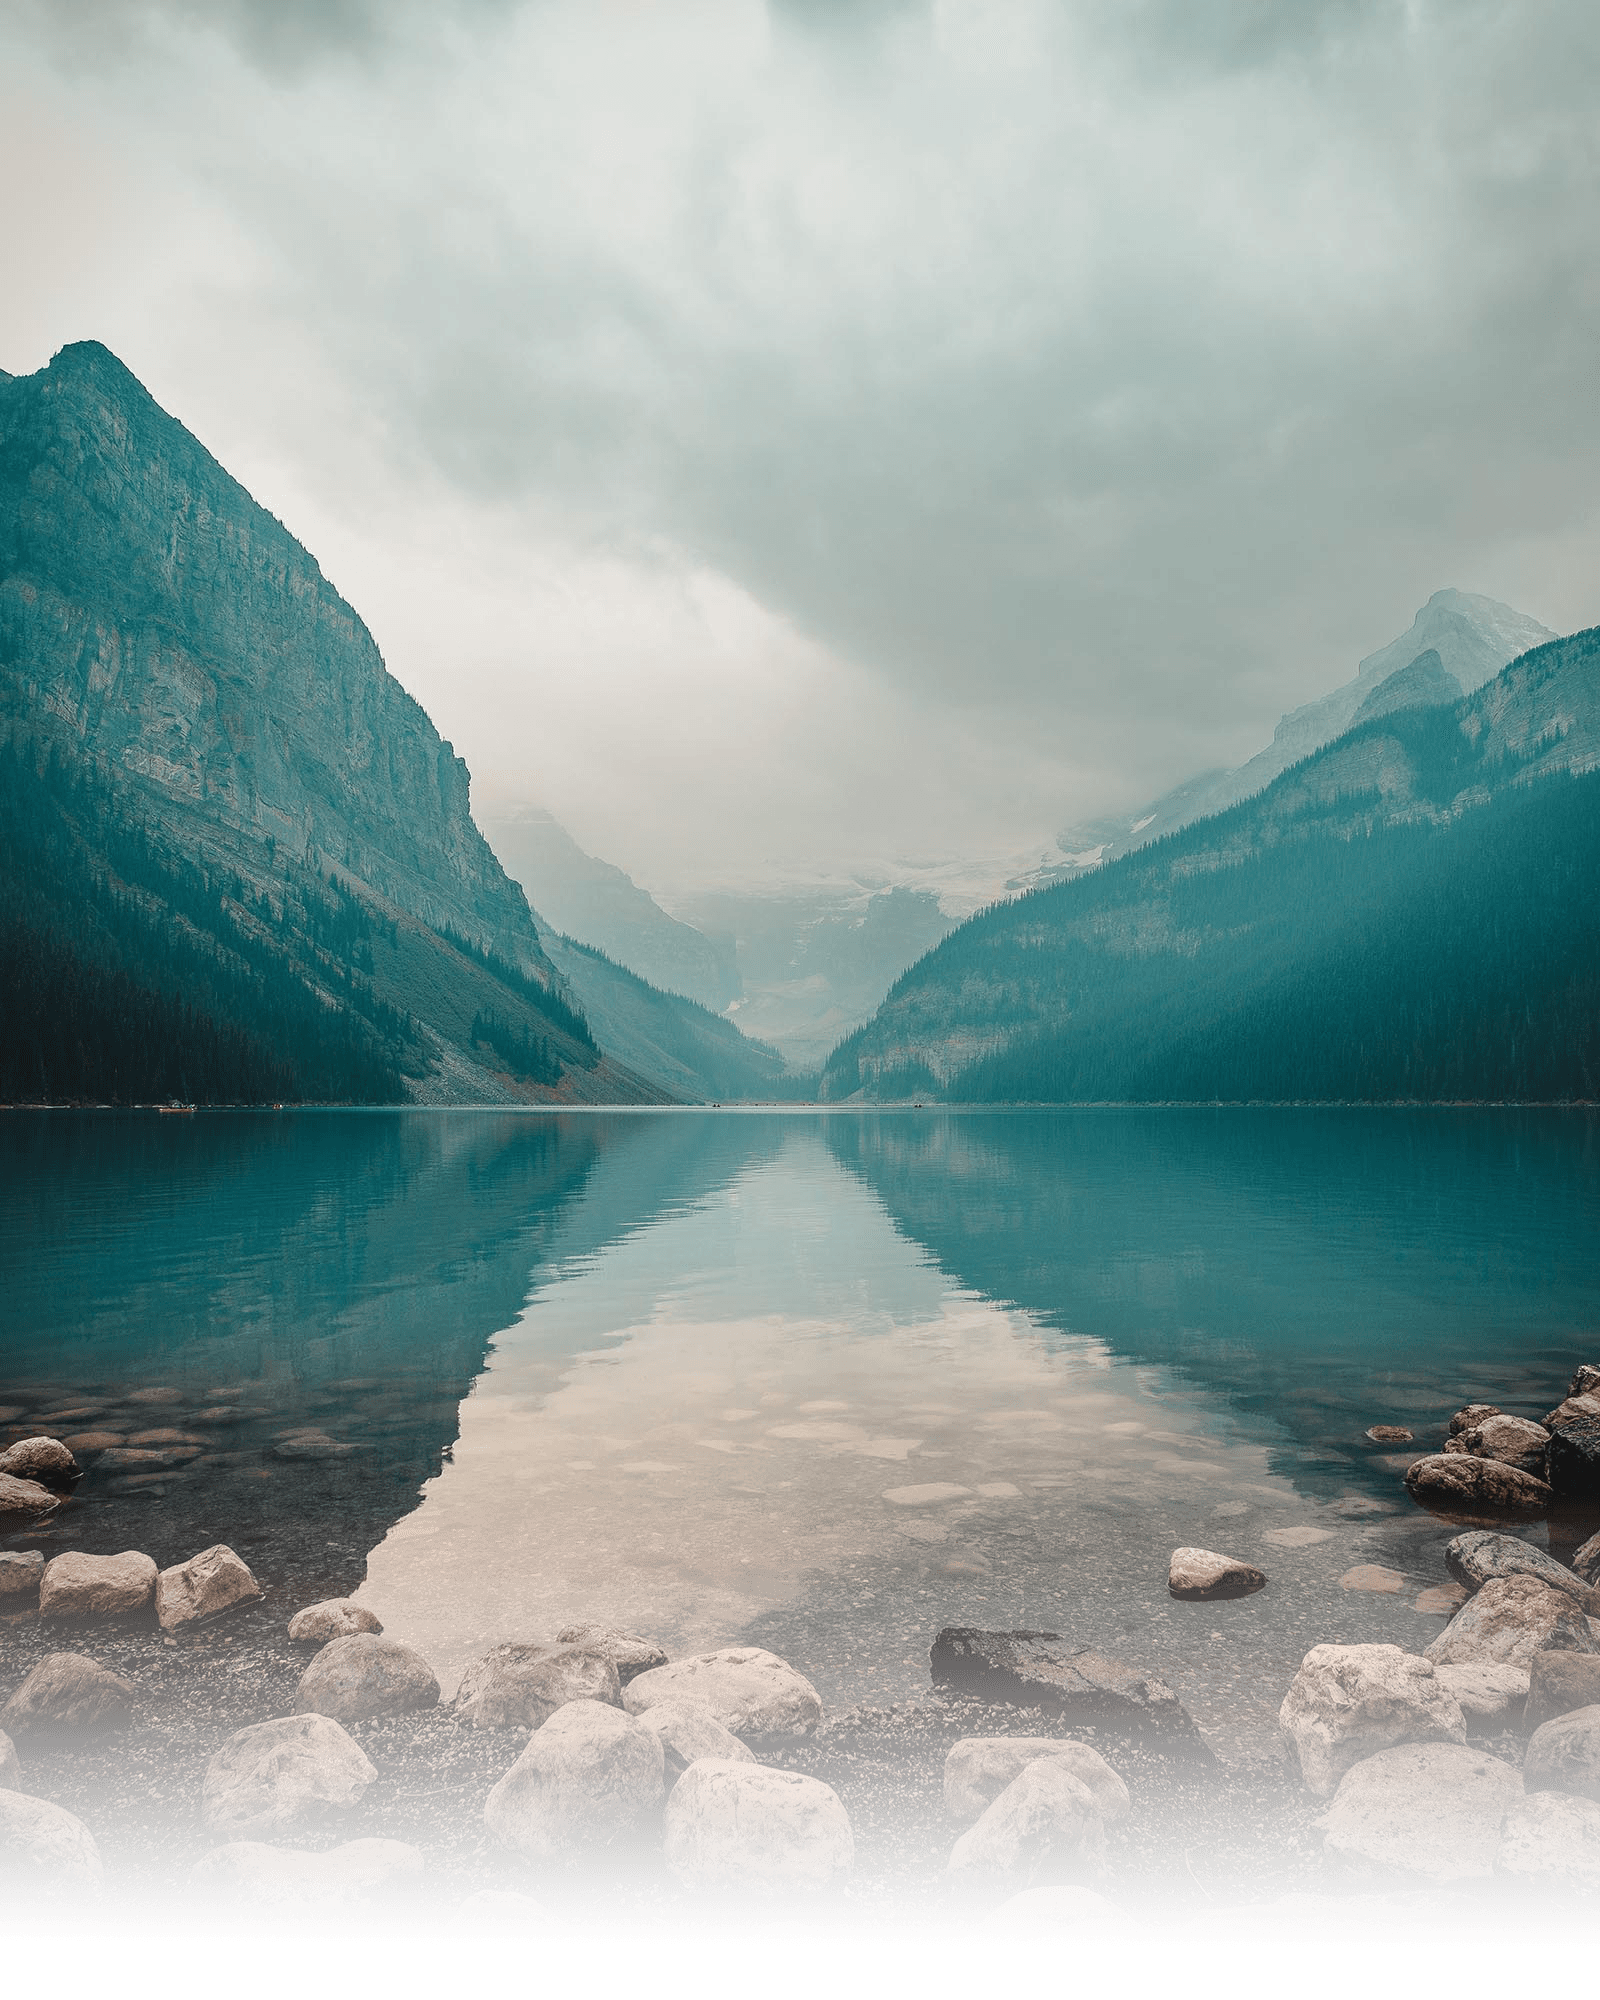
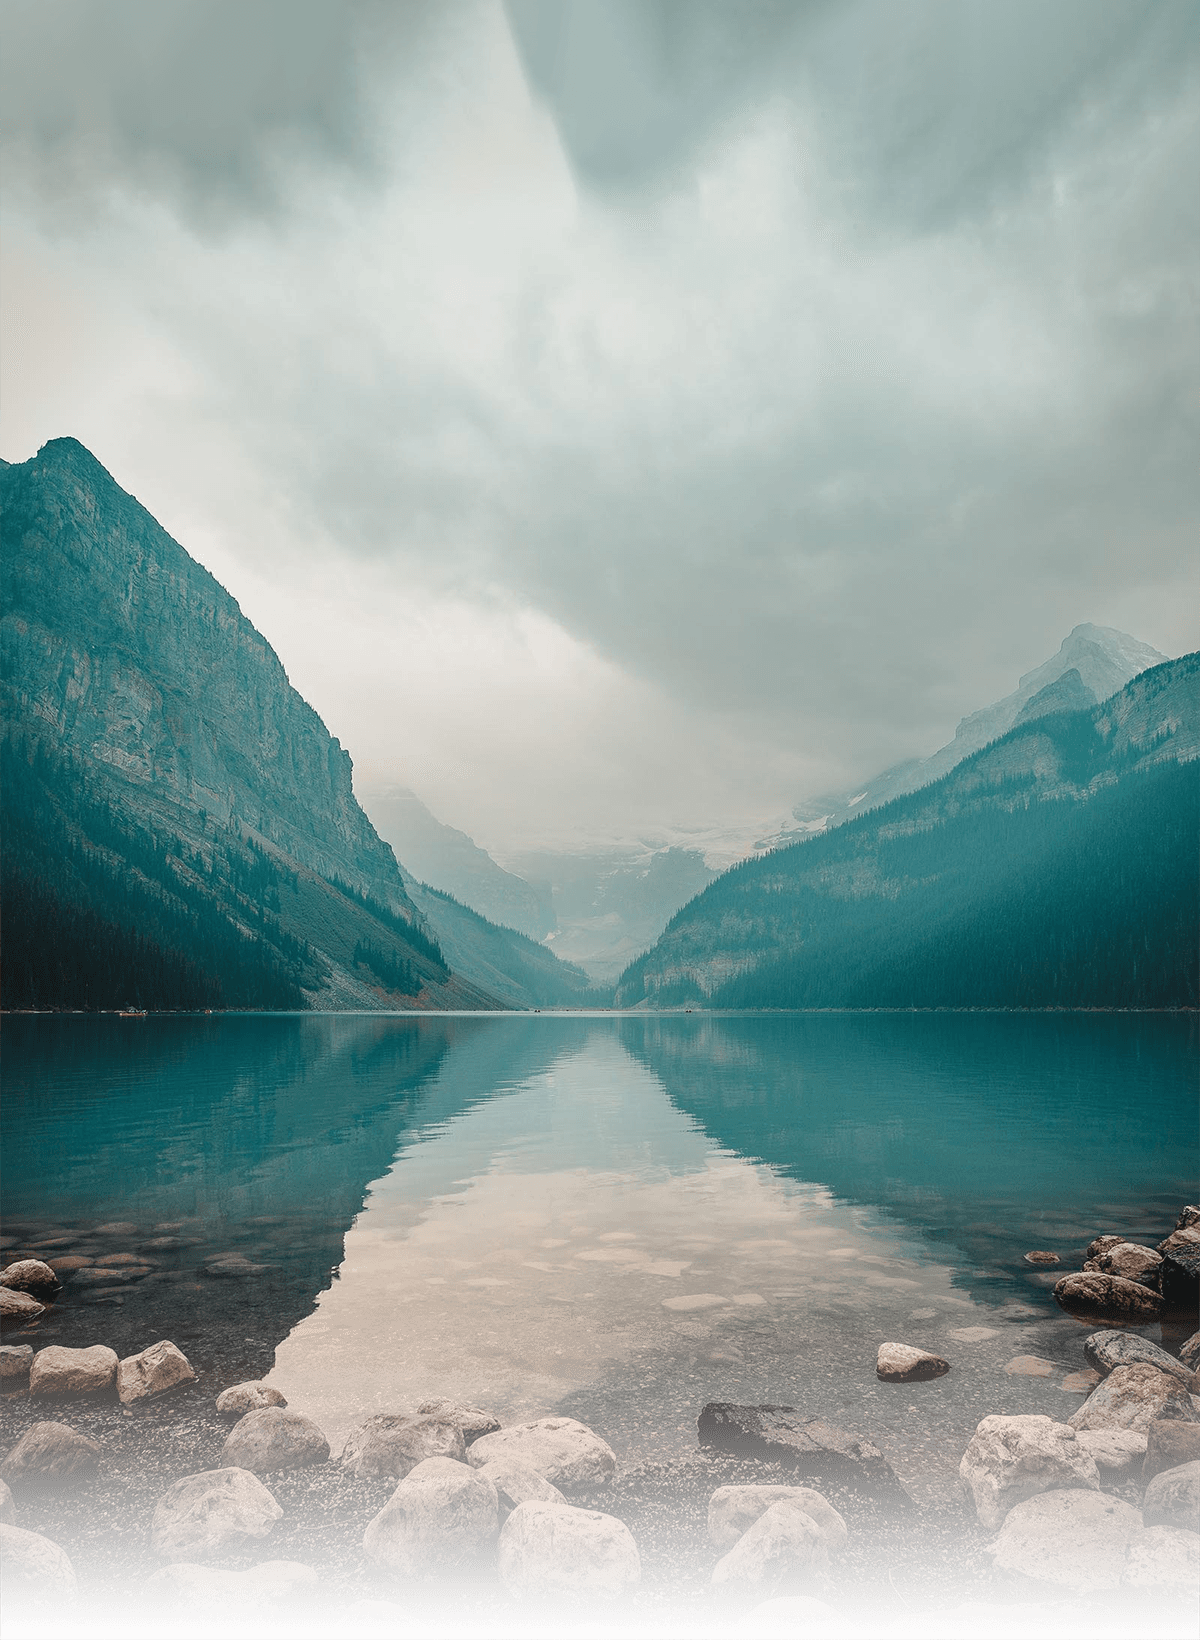
fix background to fit with inputs errors better

diff --git a/src/components/Forms/Form.module.css b/src/components/Forms/Form.module.css
@@ -1,0 +1,94 @@
+.wrapper {
+  margin: auto;
+  width: 40%;
+}
+
+.group {
+  margin-bottom: 1em;
+}
+
+.textual {
+  display: block;
+  font-family: inherit;
+  font-size: 1rem;
+  line-height: 1.5;
+  width: 100%;
+  padding: 0.375rem 0.75rem;
+  color: white;
+  border: 1px solid transparent;
+  background: rgba(255, 255, 255, 0.08);
+  border-radius: 10px;
+  padding-left: 20px;
+  padding-right: 20px;
+  transition: 0.3s;
+}
+
+.textual:hover,
+.textual:focus {
+  background: transparent;
+  outline: none;
+  border-color: rgba(255, 255, 255, 0.4);
+}
+.textual::placeholder {
+  color: rgba(255, 255, 255, 0.7);
+}
+
+.input {
+  composes: textual;
+  height: 50px;
+  border-radius: 40px;
+}
+
+.textarea {
+  composes: textual;
+  border-radius: 20px;
+}
+
+.success {
+  /* color: #2d714b; */
+  color: #fff;
+  background-color: #2d714b82;
+  padding: 0.375rem 0.75rem;
+  border-radius: 40px;
+  height: 50px;
+  line-height: 1.5;
+  display: flex;
+  justify-content: center;
+  align-items: center;
+  margin-top: 2em;
+}
+
+.danger {
+  /* color: #951b1b; */
+  color: #fff;
+  background-color: #8b444487;
+  padding: 0.375rem 0.75rem;
+  border-radius: 40px;
+  height: 50px;
+  line-height: 1.5;
+  display: flex;
+  justify-content: center;
+  align-items: center;
+  margin-top: 2em;
+}
+
+@media screen and (max-width: 700px) {
+  .wrapper {
+    width: 50%;
+  }
+}
+@media screen and (max-width: 600px) {
+  .wrapper {
+    width: 60%;
+  }
+}
+@media screen and (max-width: 480px) {
+  .wrapper {
+    width: 80%;
+  }
+}
+@media screen and (max-width: 400px) {
+  .wrapper {
+    width: 100%;
+  }
+}

diff --git a/src/helpers/inputFeedback/inputFeedback.module.css b/src/helpers/inputFeedback/inputFeedback.module.css
@@ -1,19 +1,30 @@
-.inputErr {
-  background-color: #8b444487;
+input.inputErr {
+  /* background-color: #8b444487; */
+  background-color: #8b444470;
   /* border: 2px solid #843c3c; */
 }
 
-.inputSucc {
-  border: 2px solid #2d714b82;
+input.inputSucc {
+  /* border: 2px solid #5eac8190; */
+  border: 2px solid #05563a90;
+  border: 2px solid #2d714b90;
+}
+
+.inputFeedbackMsg {
+  /* font-size: 1.1rem; */
+  padding-left: 20px;
+  /* font-weight: 600; */
 }
 
 .inputErrMsg {
-  padding-left: 20px;
-  color: #843c3c;
-  /* color: #951b1b; */
+  composes: inputFeedbackMsg;
+  /* color: #843c3c; */
+  color: #770707;
 }
 
 .inputSuccMsg {
-  padding-left: 20px;
-  color: #2d714b;
+  composes: inputFeedbackMsg;
+  /* color: #fff; */
+  color: #05563a;
+  /* color: #d1ded1; */
 }

diff --git a/src/components/Header/Header.jsx b/src/components/Header/Header.jsx
@@ -1,13 +1,14 @@
 import { NavLink } from 'react-router-dom';
 import style from './Header.module.css';
 import Flex from '../UI/Flex/Flex';
+import logo from '../../assets/logo.png';
 
 function Header() {
   return (
     <header className={style.header}>
       <Flex>
-        <img className={style.img} src="logo.png" alt="React logo" />
-        <nav className={style.nav}> 
+        <img className={style.img} src={logo} alt="React logo" />
+        <nav className={style.nav}>
           <NavLink to="/login">Login</NavLink>
           <NavLink to="/register">Register</NavLink>
           <NavLink exact to="/">Home</NavLink>

diff --git a/src/index.css b/src/index.css
@@ -3,7 +3,11 @@
 }
 
 body {
-  background: url('./assets/bg.png') no-repeat center center/cover;
+  background: url('./assets/bg.png') no-repeat 50% 35%/cover;
+  /* background: url('./assets/bg.png');
+  background-repeat: no-repeat;
+  background-size: cover;
+  background-position: 50% 40%; */
   background-color: #cdb9af;
   color: white;
   font-family: 'Lato', sans-serif;
@@ -61,4 +65,5 @@ h2 {
   font-weight: 300;
   font-size: 1.75rem;
   margin-bottom: 1em;
+  line-height: 1.5;
 }

diff --git a/src/helpers/inputFeedback/inputFeedback.jsx b/src/helpers/inputFeedback/inputFeedback.jsx
@@ -16,7 +16,7 @@ export function inputFeedbackText(field, formik) {
     return <p className={style.inputErrMsg}>{formik.errors[field]}</p>;
   }
   if (formik.touched[field] && !formik.errors[field]) {
-    return <p className={style.inputSuccMsg}>Looks good!</p>;
+    return <p className={style.inputSuccMsg}>looks good!</p>;
   }
   // return formik.touched[field] && formik.errors[field] ? (
   //   <p className={style.inputErrMsg}>{formik.errors[field]}</p>

diff --git a/src/components/Header/Header.module.css b/src/components/Header/Header.module.css
@@ -1,6 +1,6 @@
 .header {
   background-color: #7b8080da;
-  font-size: 1rem;
+  font-size: 1.2rem;
   font-weight: 300;
   text-transform: uppercase;
   letter-spacing: 1.5px;
